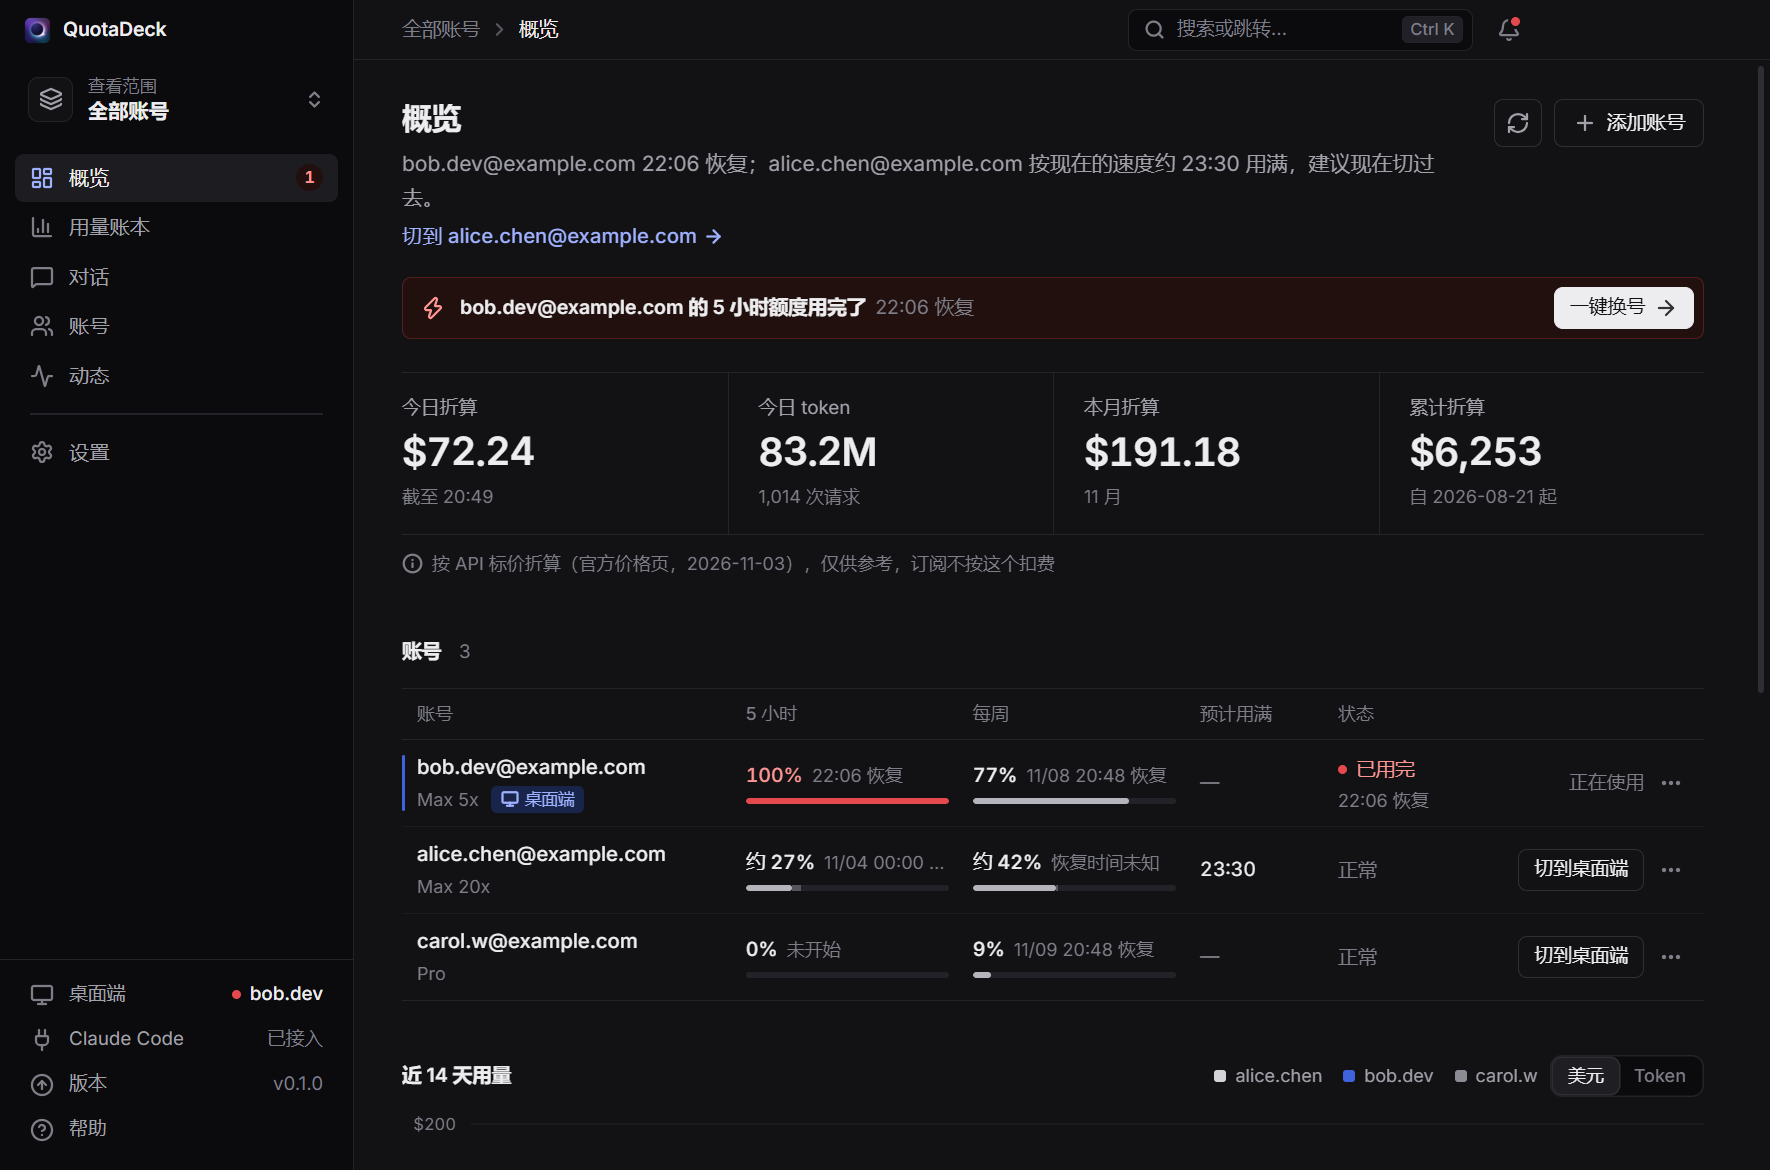
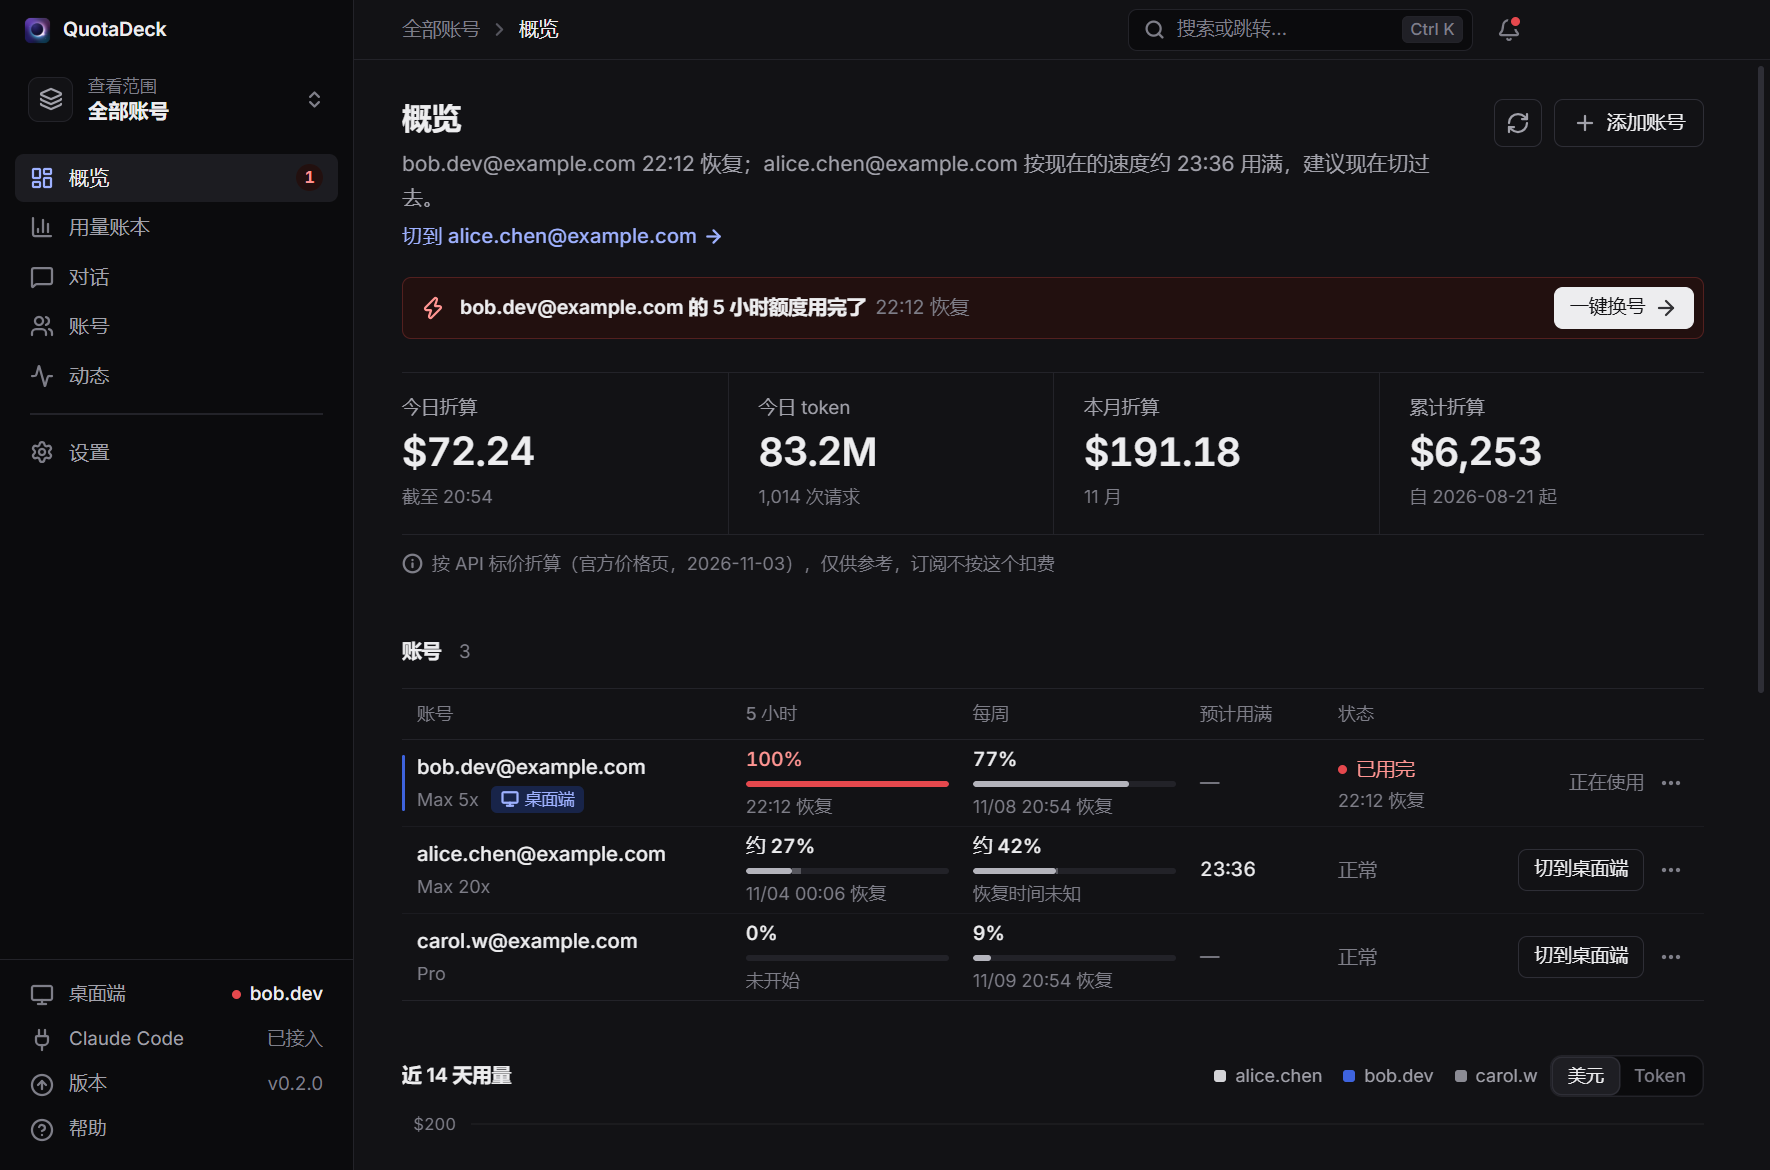
Ledger shows background requests; tray column names; reset times under the bars; pictures at v0.2.0

diff --git a/src/renderer/src/pages/Ledger.tsx b/src/renderer/src/pages/Ledger.tsx
@@ -249,6 +249,25 @@ function LedgerBody({ stats, group }: { stats: UsageStats; group: Group }) {
               <Share value={m.costUsd} total={total.costUsd} />
             </div>
           ))}
+          {(total.background.costUsd > 0 || sumTokens(total.background.tokens) > 0) && (
+            <div className="dt-row" style={{ minHeight: 52 }}>
+              <div className="dt-cell">
+                <div className="dt-name">
+                  <span className="ellipsis">{t('lgBackground')}</span>
+                </div>
+                <div className="dt-sub" style={{ whiteSpace: 'normal' }}>
+                  {t('lgBackgroundHint')}
+                  {total.background.webSearches > 0 ? ` · ${t('lgWebSearches', { n: total.background.webSearches })}` : ''}
+                </div>
+              </div>
+              <span className="dt-num r">{formatTokens(total.background.tokens.input)}</span>
+              <span className="dt-num r">{formatTokens(total.background.tokens.output)}</span>
+              <span className="dt-num r">{formatTokens(cw(total.background.tokens))}</span>
+              <span className="dt-num r">{formatTokens(total.background.tokens.cacheRead)}</span>
+              <span className="dt-num r">{formatUsd(total.background.costUsd)}</span>
+              <Share value={total.background.costUsd} total={total.costUsd} />
+            </div>
+          )}
         </div>
       </div>
     </section>

diff --git a/src/renderer/src/i18n.ts b/src/renderer/src/i18n.ts
@@ -95,6 +95,12 @@ const zh = {
   lgDaily: '每日用量',
   lgHourly: '今天每小时',
   lgByModel: '按模型',
+  lgBackground: '后台请求',
+  lgBackgroundHint: '后台请求（压缩上下文、生成标题、联网搜索等），按 Claude Code 自己记下的总数补入',
+  lgWebSearches: '联网搜索 {n} 次',
+  secAccountsTitle: '账号',
+  trayCol5h: '5 小时',
+  trayColWeek: '每周',
   lgByProject: '按项目',
   lgByAccount: '按账号',
   colModel: '模型',
@@ -676,6 +682,12 @@ const en: Dict = {
   lgDaily: 'Daily usage',
   lgHourly: 'Today by hour',
   lgByModel: 'By model',
+  lgBackground: 'Background requests',
+  lgBackgroundHint: 'Background requests (compacting context, titles, web search, …), added from the totals Claude Code records itself',
+  lgWebSearches: '{n} web searches',
+  secAccountsTitle: 'Accounts',
+  trayCol5h: '5-hour',
+  trayColWeek: 'Weekly',
   lgByProject: 'By project',
   lgByAccount: 'By account',
   colModel: 'Model',

diff --git a/src/renderer/src/components/AccountTable.tsx b/src/renderer/src/components/AccountTable.tsx
@@ -67,16 +67,16 @@ export function MeterCell({
         <span className={`meter-pct${shown.pct === undefined ? ' na' : cls}`}>
           {shown.pct === undefined ? '—' : `${shown.estimated ? t('approx') : ''}${Math.round(shown.pct)}%`}
         </span>
-        {resetLabel && (
-          <span className="meter-reset has-tip-anchor" title={reset ? formatIn(reset, lang, now) : undefined}>
-            {resetLabel}
-          </span>
-        )}
       </div>
       <div className="meter" aria-hidden="true">
         {w && <div className={`meter-fill${cls}`} style={{ width: `${recorded}%` }} />}
         {extra > 0 && <div className={`meter-est${cls}`} style={{ left: `${recorded}%`, width: `${extra}%` }} />}
       </div>
+      {resetLabel && (
+        <span className="meter-reset" title={reset ? formatIn(reset, lang, now) : undefined}>
+          {resetLabel}
+        </span>
+      )}
     </div>
   )
 }

diff --git a/src/renderer/src/pages/TrayView.tsx b/src/renderer/src/pages/TrayView.tsx
@@ -66,6 +66,11 @@ export function TrayView({ api }: { api: QuotaDeckApi }) {
           </span>
         </div>
         <div className="tray-list">
+          <div className="tray-row tray-cols" aria-hidden="true">
+            <span />
+            <span>{t('trayCol5h')}</span>
+            <span>{t('trayColWeek')}</span>
+          </div>
           {state.accounts.map((a) => (
             <div key={a.id} className={`tray-row${a.isDesktopCurrent ? ' is-current' : ''}`}>
               <div className="tray-name ellipsis" title={displayName(a)}>

diff --git a/src/renderer/src/styles/views.css b/src/renderer/src/styles/views.css
@@ -293,8 +293,14 @@
   color: var(--text-4);
 }
 .meter-reset {
+  font-size: 12px;
+  color: var(--text-3);
+  white-space: nowrap;
   overflow: hidden;
   text-overflow: ellipsis;
+}
+.meter-cell .meter-reset {
+  margin-top: -1px;
 }
 .meter-label {
   color: var(--text-3);
@@ -972,6 +978,11 @@
   width: 2px;
   border-radius: 2px;
   background: var(--accent);
+}
+.tray-row.tray-cols {
+  min-height: 24px;
+  font-size: 11px;
+  color: var(--text-3);
 }
 .tray-name {
   font-size: 13px;

diff --git a/src/main/screenshots.ts b/src/main/screenshots.ts
@@ -130,7 +130,7 @@ export async function captureScreenshots(win: BrowserWindow, backend: Backend, o
 async function captureTray(main: BrowserWindow): Promise<Buffer> {
   const win = new BrowserWindow({
     width: 360,
-    height: 246,
+    height: 268,
     show: false,
     frame: false,
     webPreferences: { preload: path.join(__dirname, '../preload/index.js'), sandbox: true, contextIsolation: true, backgroundThrottling: false }

diff --git a/src/renderer/src/pages/Overview.tsx b/src/renderer/src/pages/Overview.tsx
@@ -347,7 +347,7 @@ export function Overview() {
 
       <section className="sec">
         <div className="sec-head">
-          <h2 className="sec-title">{t('colAccount')}</h2>
+          <h2 className="sec-title">{t('secAccountsTitle')}</h2>
           <span className="sec-sub">{accounts.length}</span>
         </div>
         <AccountTable accounts={accounts} onScope={scope === 'all' ? setScope : undefined} />

diff --git a/src/shared/demo.ts b/src/shared/demo.ts
@@ -20,7 +20,7 @@ import type {
 const MIN = 60_000
 const HOUR = 60 * MIN
 /** Version shown in demo mode (screenshots). */
-export const DEMO_VERSION = '0.1.0'
+export const DEMO_VERSION = '0.2.0'
 
 /** Deterministic pseudo-random numbers so screenshots are stable. */
 function rng(seed: number): () => number {
